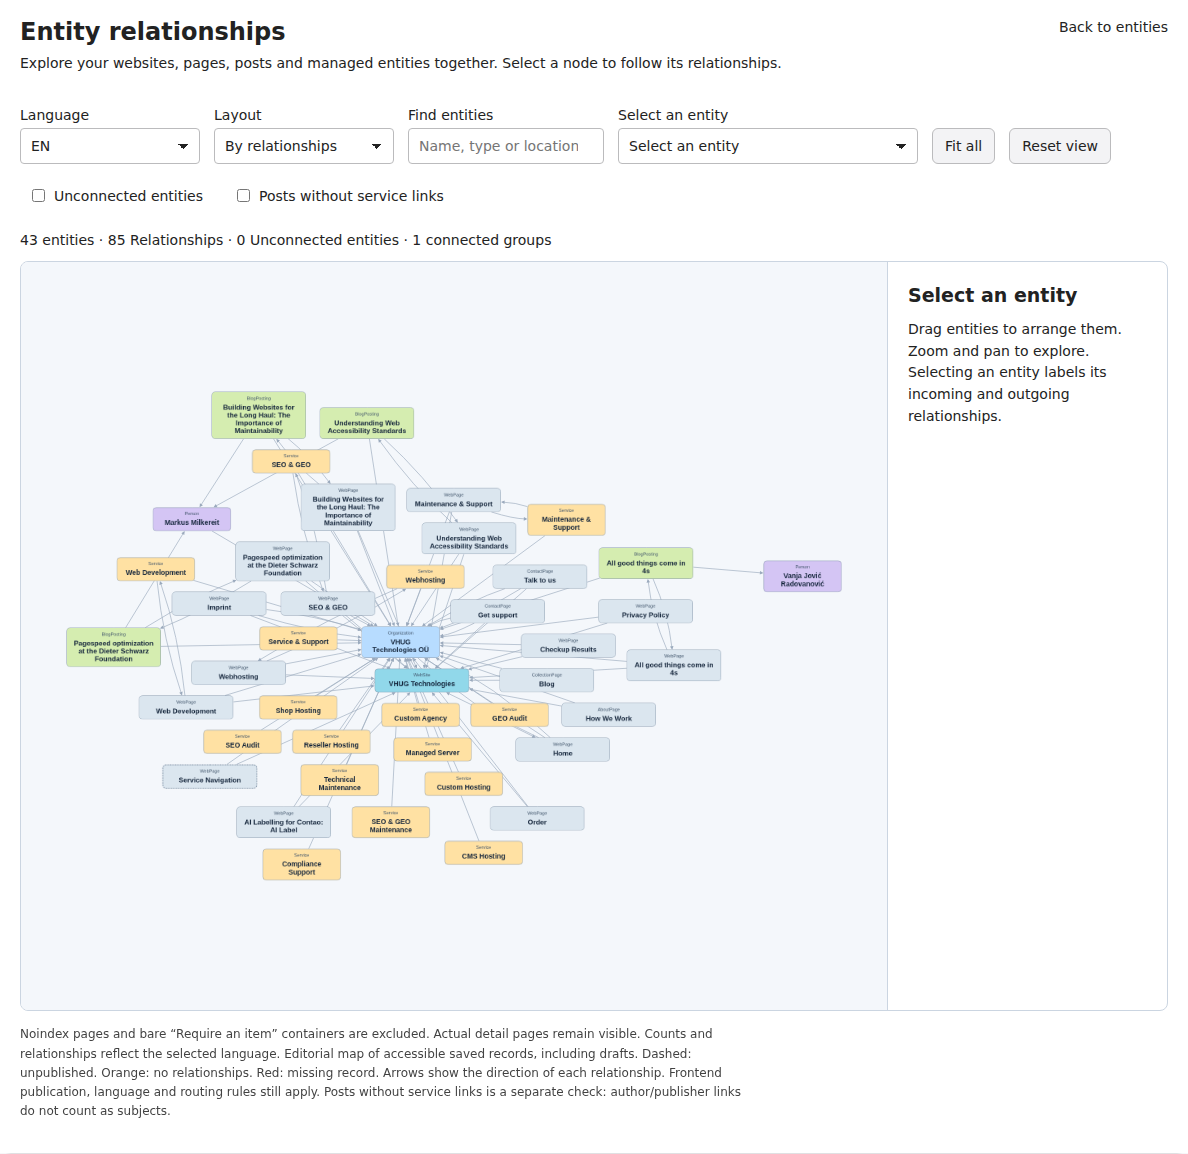
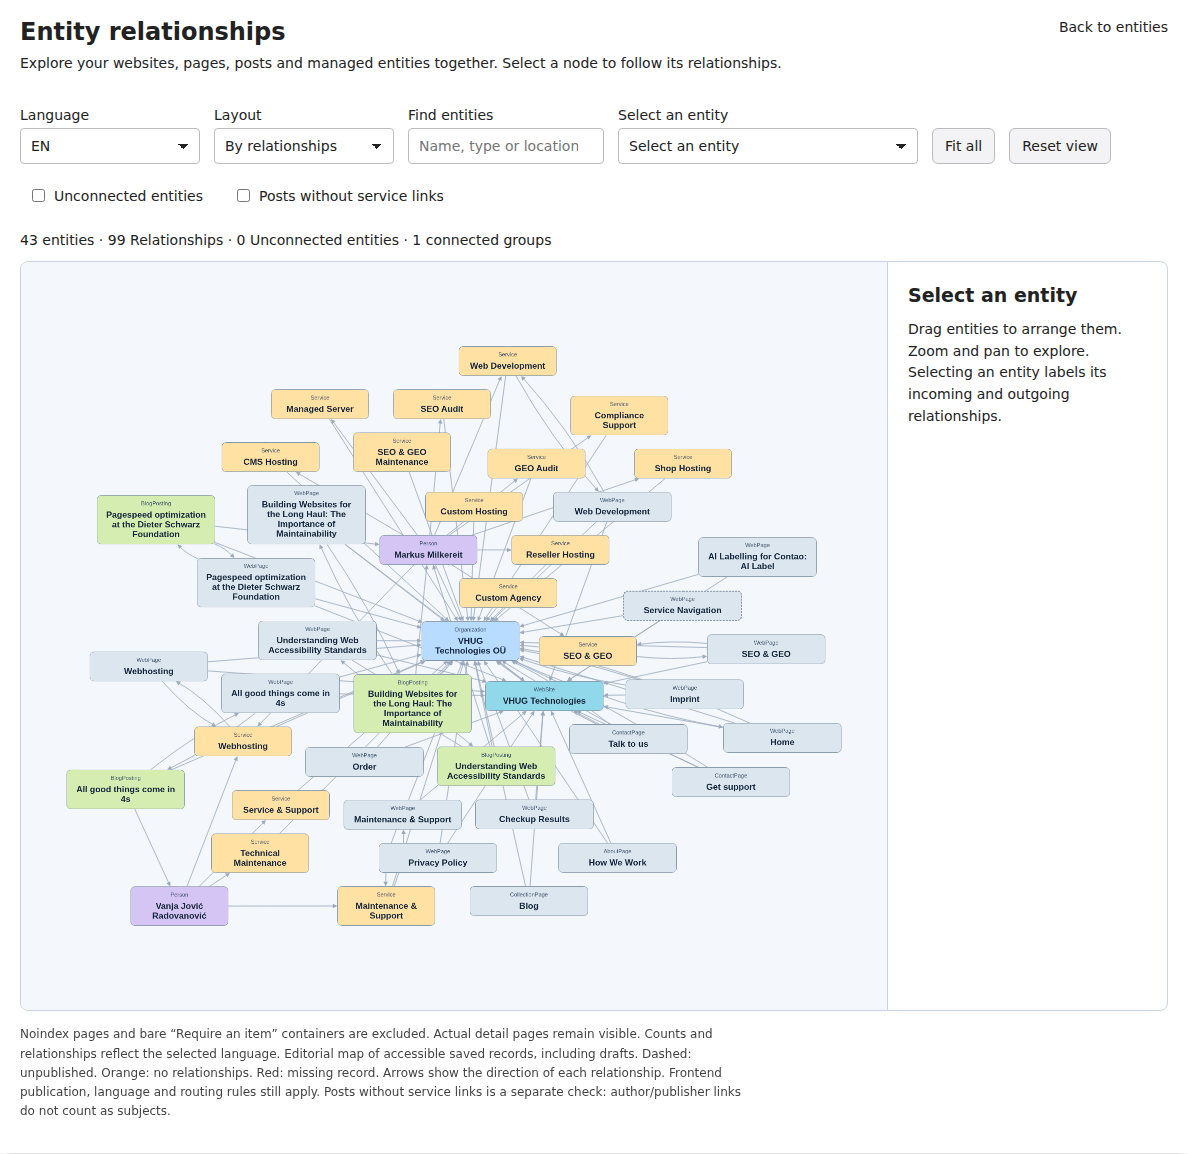
Show current graph layouts and Webhosting in README gallery

Changed region(s): [[0.0311, 0.2808, 0.7163, 0.8111]]

diff --git a/README.md b/README.md
@@ -18,7 +18,16 @@ For example, a hosting business can describe its company once, connect its hosti
 
 Available since **1.1.0** under **Structured data → Entity relationships**.
 
-![Interactive relationship map of the pilot entities](docs/images/relationships.png)
+<table>
+<tr><th>By relationship</th><th>By type</th><th>Webhosting selected</th></tr>
+<tr>
+<td><a href="docs/images/relationships.png"><img src="docs/images/relationships.png" alt="Current graph arranged by relationship" width="280"></a></td>
+<td><a href="docs/images/relationships-grouped.png"><img src="docs/images/relationships-grouped.png" alt="Current graph grouped by entity type" width="280"></a></td>
+<td><a href="docs/images/relationships-webhosting.png"><img src="docs/images/relationships-webhosting.png" alt="Webhosting selected with its relationships and entity details" width="280"></a></td>
+</tr>
+</table>
+
+*Click a screenshot to view it at full size.*
 
 The map shows managed entities, websites, pages and News-generated posts together, including drafts and entities without connections. `noindex` pages are excluded. Choose one language (shared entities stay visible), or all languages, and switch between relationship layout and grouping by type. Author, publisher, page membership and article subject links are visible. **Posts without service links** highlights articles without a direct `about`/`mentions` connection to a Service. Select a node (or use the keyboard-accessible entity selector) to see incoming/outgoing relationships, localized home assignments and an edit link. Search by name, type or location; use **Unconnected entities** to highlight records worth reviewing. LocalBusiness labels include street and postal locality to distinguish branches with the same company name.
 
